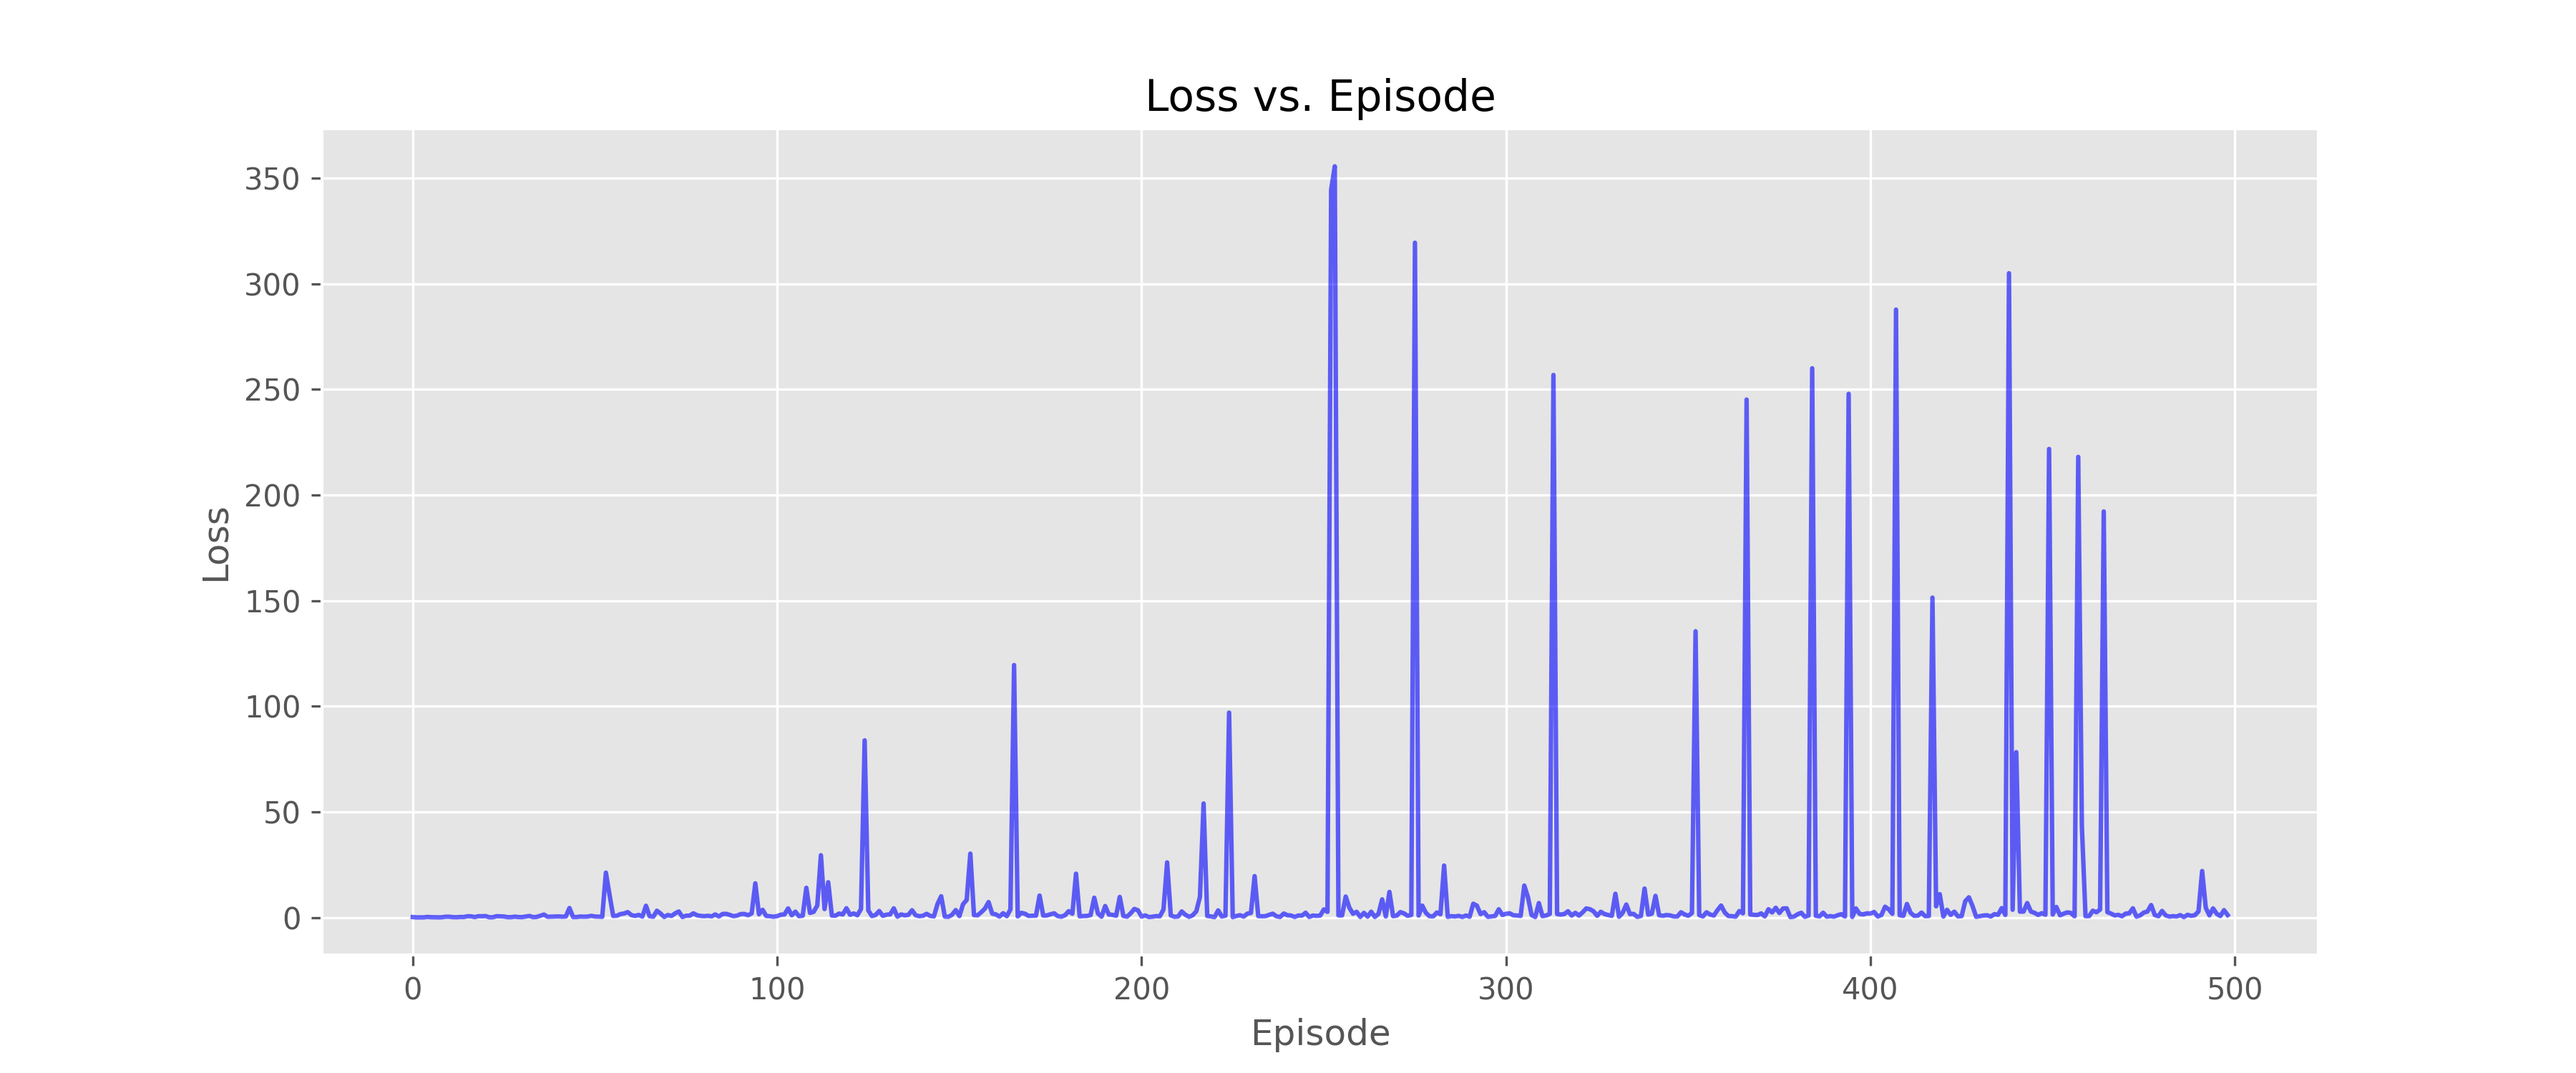
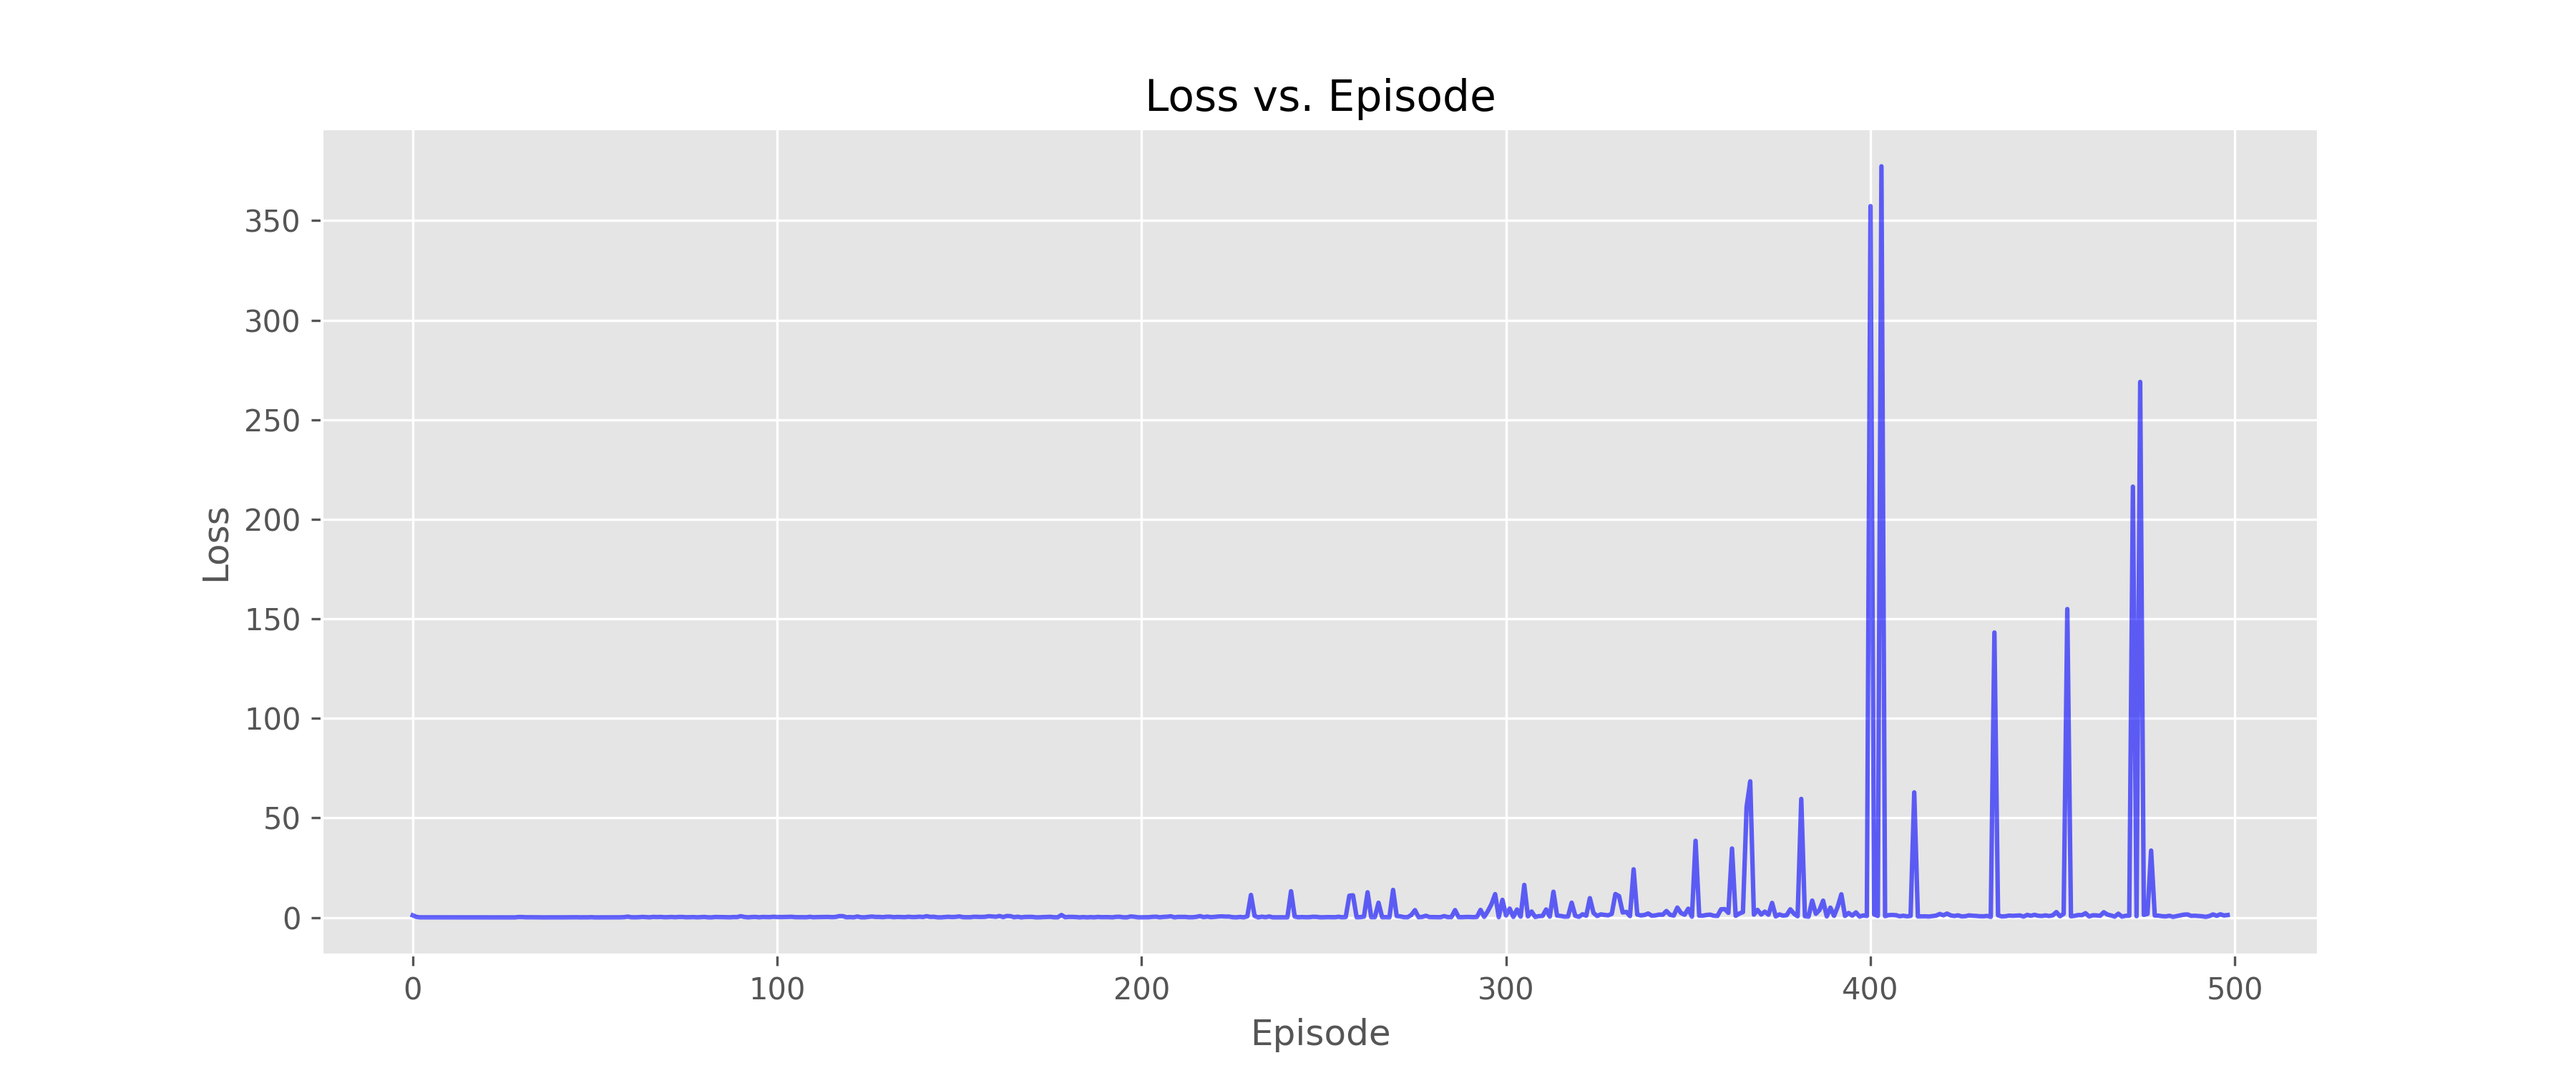
feat: rl20 ddqn

diff --git a/rl20_cart_pole_ddqn.py b/rl20_cart_pole_ddqn.py
@@ -27,14 +27,14 @@ plt.style.use("ggplot")
 
 # --- HYPERPARAMETERS ---
 HIDDEN_LAYER = 64
-LEARNING_RATE = 0.02
+LEARNING_RATE = 0.001
 NUM_EPISODES = 500
-GAMMA = 0.99
+GAMMA = 0.9999
 
 REPLAY_MEM_SIZE = 50000
 BATCH_SIZE = 32
 
-UPDATE_TARGET_FREQUENCY = 100
+UPDATE_TARGET_FREQUENCY = 500
 CLIP_ERROR = False
 DOUBLE_DQN = True
 

diff --git a/README.md b/README.md
@@ -269,7 +269,7 @@ $$ L_i(\theta_i) = \mathbb{E}_{(s,a,r,s') \sim U(D)} \left[ \left( r + \gamma \m
 
 Where $r + \gamma \max_{a'} Q(s',a';\theta_i^-)$ is the target Q value and $Q(s,a;\theta_i)$ is the current Q-value estimate for the action $a$ taken in state $s$. The $\theta$ are NN weights. Remember that the agent is the Learning NN.
 
-###
+### rl20_cart_pole_ddqn.py
 
 [DRL with Double Q-learning](https://arxiv.org/abs/1509.06461) (DDQN) is an improvement on the standard DQN algorithm, designed to reduce overestimation bias in the predicted Q-values.
 <!-- It achieves this by decoupling the selection of the best action from the evaluation of its value. -->
@@ -278,3 +278,6 @@ $$Y_{\text{DQN}} = r + \gamma \cdot \max_{a'} Q(s', a'; \theta)$$
 
 and for the DDQN is:
 $$Y_{\text{DoubleDQN}} = r + \gamma \cdot Q(s', \arg\max_{a'} Q(s', a'; \theta); \theta^-)$$
+
+###
+(Dueling Network Architectures for DRL)[https://arxiv.org/abs/1511.06581]
